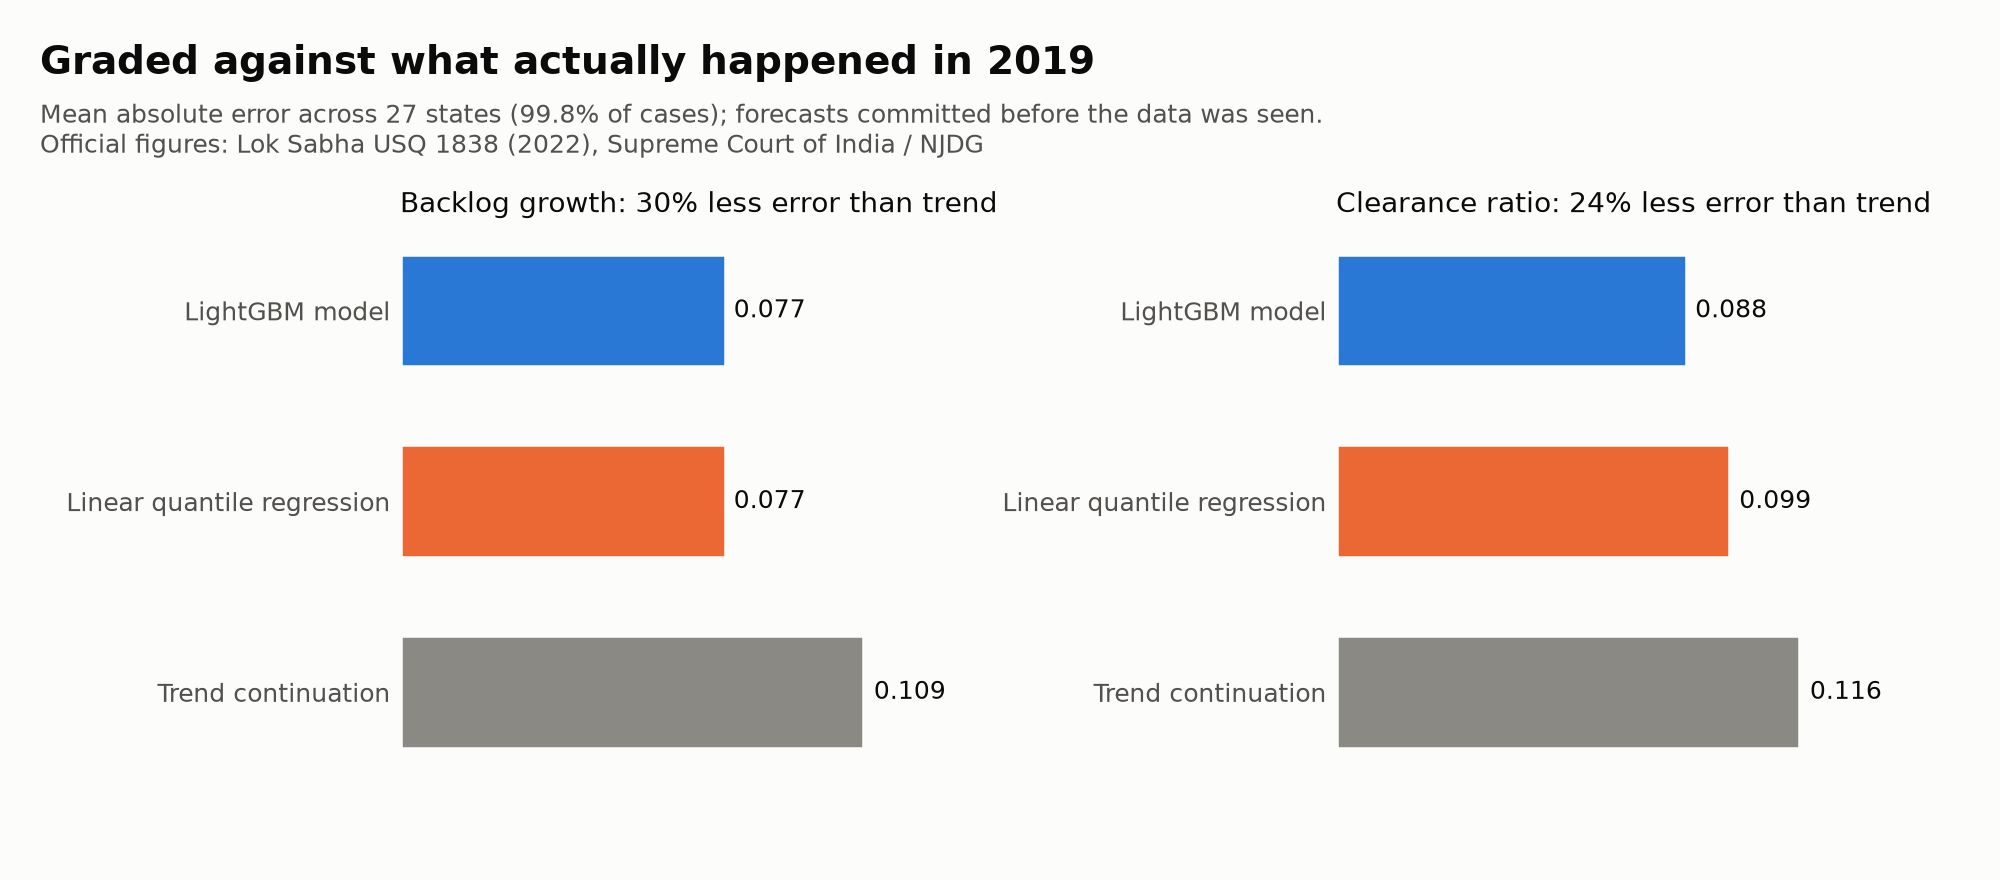
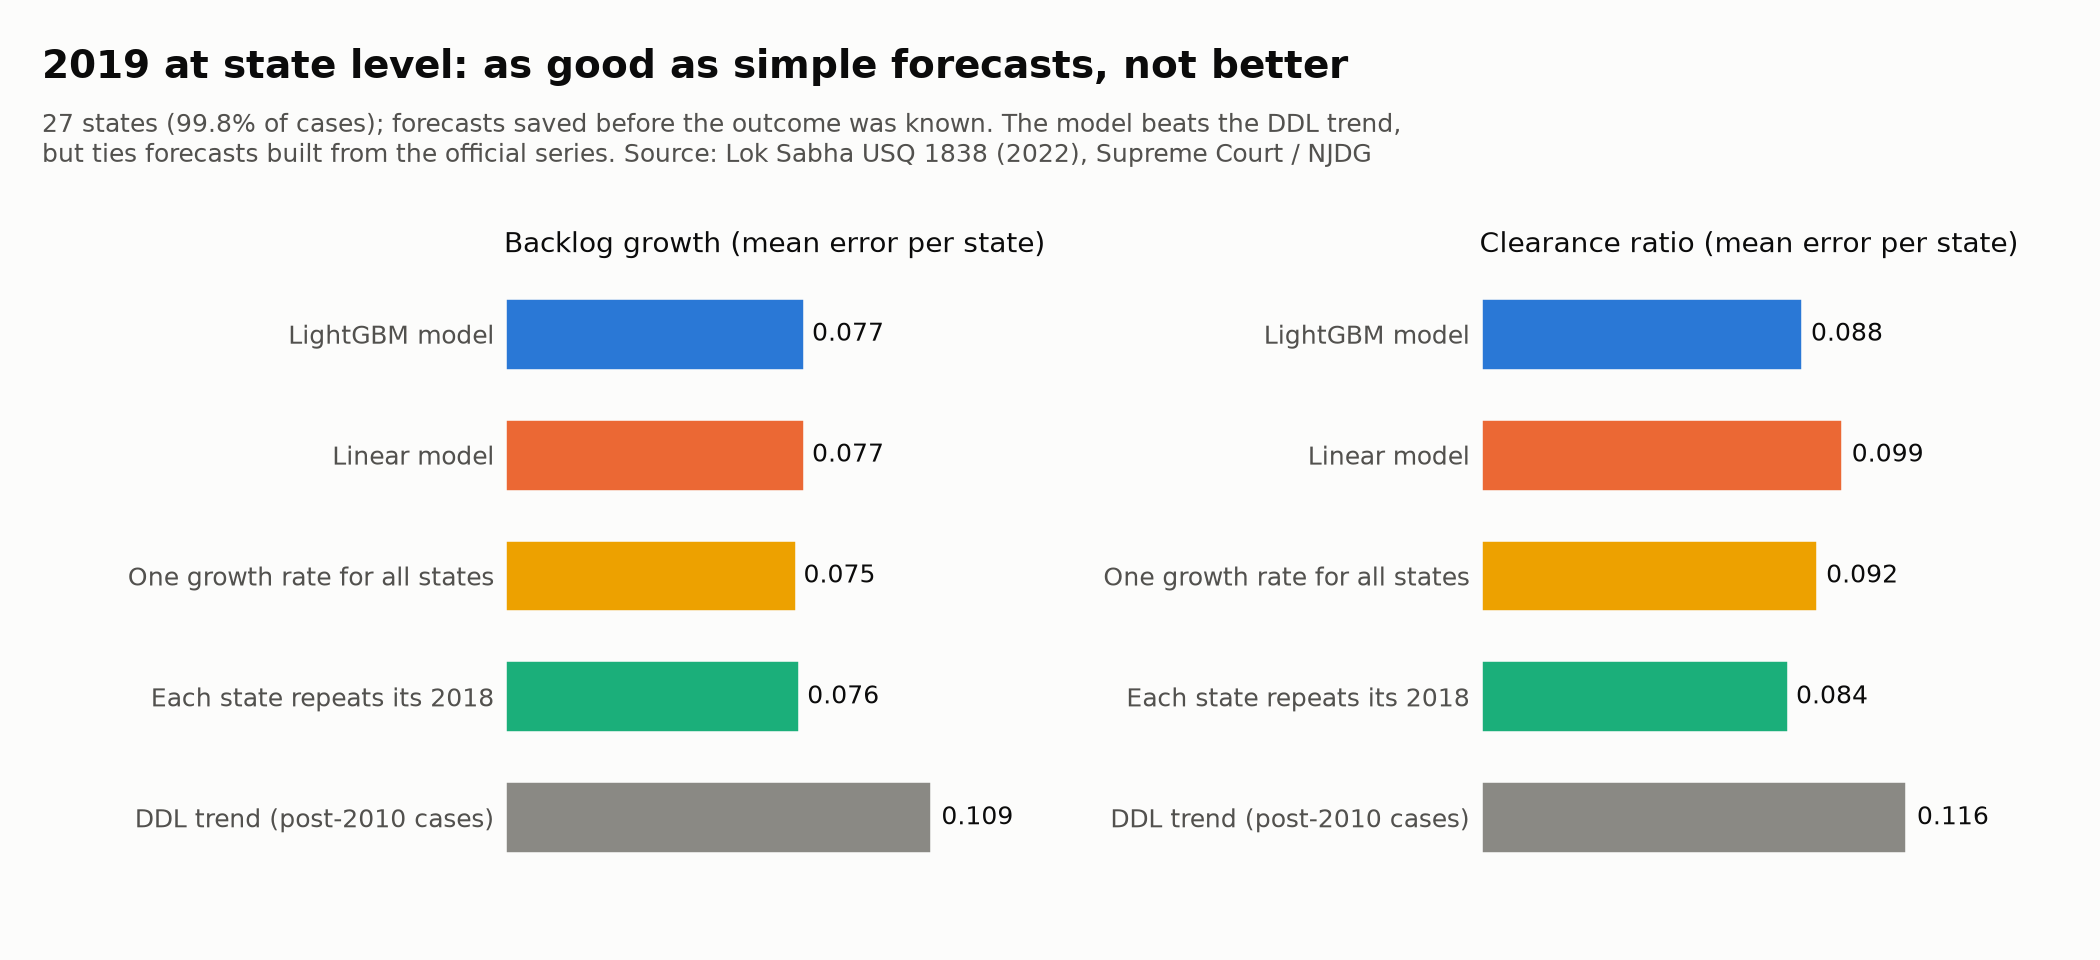
Grade against strong simple baselines, not only the DDL trend
The DDL trend anchor extrapolates the post-2010 stock, whose growth slows
mechanically, so it flattered the model. Adds official-series baselines to
the 2019 state grading (the model ties them) and naive_benchmarks.py for the
district validation (median skill vs the strongest simple forecast: 12-25%).
RESULTS, README and the 2019 chart now lead with the stricter comparison.

diff --git a/grade_state_2019.py b/grade_state_2019.py
@@ -67,7 +67,23 @@ OFFICIAL: Final = {
     "Sikkim": (1208, 1142, 1906),
     "Uttarakhand": (232338, 195281, 341452),
 }
+# official pending at end of 2017 and disposed during 2018 (same annexures): for naive baselines built on the
+# official series itself, which is the benchmark a skeptic would use
+OFFICIAL_2017_D2018: Final = {
+    "Uttar Pradesh": (6390684, 3282885), "Andhra Pradesh + Telangana": (1040864, 741390),
+    "Maharashtra": (3340050, 2196271), "Goa": (39249, 36235), "West Bengal": (2141254, 1016319),
+    "Chhattisgarh": (277338, 229548), "Delhi": (747704, 808156), "Gujarat": (1555203, 1418688),
+    "Assam": (276520, 311150), "Meghalaya": (14775, 8517), "Manipur": (6799, 4379), "Tripura": (107089, 139931),
+    "Mizoram": (5148, 12563), "Himachal Pradesh": (234639, 343667), "Jammu & Kashmir": (161674, 146194),
+    "Jharkhand": (338680, 194200), "Karnataka": (1432952, 1120397), "Kerala": (1623212, 961840),
+    "Madhya Pradesh": (1332566, 1386280), "Tamil Nadu": (1065878, 906184), "Odisha": (1178882, 255005),
+    "Bihar": (2223744, 361063), "Punjab": (572802, 712529), "Haryana": (643394, 628939),
+    "Chandigarh": (41695, 139172), "Rajasthan": (1635389, 1468290), "Sikkim": (1405, 2440),
+    "Uttarakhand": (210018, 288999),
+}
 FORECASTERS: Final = {"model": "", "linear": "linear_", "drift": "drift_"}
+# naive forecasts from the official series: each state repeats its own 2018; every state gets the 2018 median
+BASELINES: Final = ("official_last_year", "official_common")
 
 
 def official_frame() -> pd.DataFrame:
@@ -75,6 +91,11 @@ def official_frame() -> pd.DataFrame:
     o["A2019"] = o["P2019"] - o["P2018"] + o["D2019"]
     o["growth_actual"] = np.log(o["P2019"] / o["P2018"])
     o["cr_actual"] = np.where(o["A2019"] > 0, o["D2019"] / o["A2019"], np.nan)
+    h = pd.DataFrame.from_dict(OFFICIAL_2017_D2018, orient="index", columns=["P2017", "D2018"])
+    o = o.join(h)
+    a18 = o["P2018"] - o["P2017"] + o["D2018"]
+    o["growth_official_last_year"] = np.log(o["P2018"] / o["P2017"])
+    o["cr_official_last_year"] = np.where(a18 > 0, o["D2018"] / a18, np.nan)
     return o
 
 
@@ -112,11 +133,15 @@ def score(t: pd.DataFrame, target: str, names: list[str], subset: str, draws: in
             "mae_bias_removed": float(np.abs(e - e.mean()).mean()),
             "spearman_vs_actual": float(t[f"{target}_{n}"].rank().corr(t[f"{target}_actual"].rank())),
         }
-        if n != "drift":
-            boot = 1.0 - err[n][idx].sum(1) / err["drift"][idx].sum(1)
-            row |= {"error_reduction_vs_drift": float(1.0 - err[n].sum() / err["drift"].sum()),
-                    "error_reduction_lo": float(np.quantile(boot, 0.025)),
-                    "error_reduction_hi": float(np.quantile(boot, 0.975))}
+        for ref in ("drift", "official_common", "official_last_year"):
+            if n == ref or ref not in err or n in BASELINES:
+                continue
+            boot = 1.0 - err[n][idx].sum(1) / err[ref][idx].sum(1)
+            row |= {f"error_reduction_vs_{ref}": float(1.0 - err[n].sum() / err[ref].sum()),
+                    f"error_reduction_vs_{ref}_lo": float(np.quantile(boot, 0.025)),
+                    f"error_reduction_vs_{ref}_hi": float(np.quantile(boot, 0.975))}
+        w = t["P2018"].to_numpy()
+        row["mae_case_weighted"] = float((np.abs(e) * w).sum() / w.sum())
         rows.append(row)
     return rows
 
@@ -136,8 +161,10 @@ def main() -> None:
     keep = t["ddl_coverage_2018"].between(args.min_coverage, 1.5) & t["cr_actual"].between(0.0, 3.0)
     t["graded"] = keep
     t.to_csv(out / "state_table.csv", index_label="state")
-    g = t.loc[keep]
-    names = [n for n in FORECASTERS if f"growth_{n}" in g]
+    g = t.loc[keep].copy()
+    for target in ("growth", "cr"):  # one number for every state: the 2018 cross-state median
+        g[f"{target}_official_common"] = g[f"{target}_official_last_year"].median()
+    names = [n for n in FORECASTERS if f"growth_{n}" in g] + list(BASELINES)
     # robustness: drop states whose official series jumps implausibly (data clean-ups, not court activity)
     robust = g.loc[g["growth_actual"] >= -0.10]  # official stock falling >10% in a year
     rows = []
@@ -145,7 +172,7 @@ def main() -> None:
         rows += score(sub, "growth", names, lab) + score(sub, "cr", names, lab)
     summary = pd.DataFrame(rows)
     nat = {f"national_growth_{n}": float(np.log((g["ddl_pending_2018"] * np.exp(g[f"growth_{n}"])).sum()
-                                                 / g["ddl_pending_2018"].sum())) for n in names}
+                                                 / g["ddl_pending_2018"].sum())) for n in FORECASTERS}
     nat["national_growth_actual"] = float(np.log(g["P2019"].sum() / g["P2018"].sum()))
     summary.to_csv(out / "summary.csv", index=False)
     meta = {"source": SOURCE, "states_graded": int(keep.sum()),

diff --git a/make_charts.py b/make_charts.py
@@ -132,20 +132,23 @@ def clearance_chart(res: Path, out: Path) -> None:
 
 
 def real_2019_chart(res: Path, out: Path) -> None:
-    """Average state-level error against official 2019 outcomes (Lok Sabha USQ 1838), per forecaster."""
+    """Average state-level error against official 2019 outcomes (Lok Sabha USQ 1838), model vs simple forecasts."""
     path = res / "grading_2019_state" / "summary.csv"
     if not path.exists():
         return
     s = pd.read_csv(path)
     s = s.loc[s["subset"] == "all_graded"]
-    label = {"model": "LightGBM model", "linear": "Linear quantile regression", "drift": "Trend continuation"}
-    color = {"model": SERIES, "linear": SERIES_2, "drift": REFERENCE}
-    fig, axes = plt.subplots(1, 2, figsize=(10, 4.4), facecolor=SURFACE)
-    fig.subplots_adjust(left=0.20, right=0.97, top=0.74, bottom=0.12, wspace=0.55)
+    order = ["drift", "official_last_year", "official_common", "linear", "model"]
+    label = {"model": "LightGBM model", "linear": "Linear model", "drift": "DDL trend (post-2010 cases)",
+             "official_last_year": "Each state repeats its 2018", "official_common": "One growth rate for all states"}
+    color = {"model": SERIES, "linear": SERIES_2, "drift": REFERENCE, "official_last_year": "#1baf7a",
+             "official_common": "#eda100"}
+    fig, axes = plt.subplots(1, 2, figsize=(10.5, 4.8), facecolor=SURFACE)
+    fig.subplots_adjust(left=0.24, right=0.97, top=0.72, bottom=0.08, wspace=0.75)
     for ax, (target, title) in zip(axes, (("growth", "Backlog growth"), ("cr", "Clearance ratio"))):
-        d = s.loc[s["target"] == target].set_index("forecaster").reindex(["drift", "linear", "model"])
+        d = s.loc[s["target"] == target].set_index("forecaster").reindex(order).dropna(subset=["mae"])
         y = np.arange(len(d))
-        ax.barh(y, d["mae"], height=0.6, color=[color[k] for k in d.index], edgecolor=SURFACE, linewidth=2)
+        ax.barh(y, d["mae"], height=0.62, color=[color[k] for k in d.index], edgecolor=SURFACE, linewidth=2)
         for yi, v in zip(y, d["mae"]):
             ax.text(v * 1.02, yi, f"{v:.3f}", va="center", fontsize=9, color=TEXT)
         ax.set_yticks(y, [label[k] for k in d.index])
@@ -155,13 +158,12 @@ def real_2019_chart(res: Path, out: Path) -> None:
         for side in ("top", "right", "left", "bottom"):
             ax.spines[side].set_visible(False)
         ax.tick_params(colors=TEXT_2, labelsize=9, length=0)
-        red = d.loc["model", "error_reduction_vs_drift"]
-        ax.set_title(f"{title}: {red:.0%} less error than trend", fontsize=10, color=TEXT, loc="left")
+        ax.set_title(f"{title} (mean error per state)", fontsize=10, color=TEXT, loc="left")
     n = int(s["states"].iloc[0])
-    fig.text(0.02, 0.95, "Graded against what actually happened in 2019", fontsize=14, fontweight="bold",
-             color=TEXT, ha="left", va="top")
-    fig.text(0.02, 0.885, f"Mean absolute error across {n} states (99.8% of cases); forecasts committed before the "
-             "data was seen.\nOfficial figures: Lok Sabha USQ 1838 (2022), Supreme Court of India / NJDG",
+    fig.text(0.02, 0.95, "2019 at state level: as good as simple forecasts, not better", fontsize=14,
+             fontweight="bold", color=TEXT, ha="left", va="top")
+    fig.text(0.02, 0.885, f"{n} states (99.8% of cases); forecasts saved before the outcome was known. The model beats the DDL "
+             "trend,\nbut ties forecasts built from the official series. Source: Lok Sabha USQ 1838 (2022), Supreme Court / NJDG",
              fontsize=9, color=TEXT_2, ha="left", va="top")
     fig.savefig(out / "graded_2019.png", dpi=200, facecolor=SURFACE)
     plt.close(fig)

diff --git a/naive_benchmarks.py b/naive_benchmarks.py
@@ -1,0 +1,66 @@
+#!/usr/bin/env python3
+"""District-level validation against the strongest simple forecasts, not only the DDL trend anchor.
+
+The trend anchor extrapolates growth of the post-2010 stock, which slows mechanically as that stock matures, so it is
+a weak benchmark. Here each validation fold is also scored against:
+  climatology    quantiles of the target over all training rows (ignores district history)
+  last_year_xs   quantiles of the target across districts in the last fully realised year before the fold
+Run after pendency_forecast.py --ddl-only --out <dir>, which writes <dir>/panel_features.parquet.
+    python3 court_pendency/naive_benchmarks.py --panel outputs/panel_features.parquet
+"""
+from __future__ import annotations
+
+import argparse
+import sys
+from pathlib import Path
+
+import numpy as np
+import pandas as pd
+
+sys.path.insert(0, str(Path(__file__).resolve().parent))
+import pendency_forecast as pf  # noqa: E402
+
+HERE = Path(__file__).resolve().parent
+
+
+def main() -> None:
+    ap = argparse.ArgumentParser(description=__doc__, formatter_class=argparse.RawDescriptionHelpFormatter)
+    ap.add_argument("--panel", type=Path, required=True)
+    ap.add_argument("--out", type=Path, default=HERE / "results" / "ddl_2010_2018" / "naive_benchmarks.csv")
+    args = ap.parse_args()
+    fr = pd.read_parquet(args.panel)
+    cfg = pf.Config(val_start=pd.Period("2017-01", "M"), horizons=(12,), break_windows=(),
+                    min_origin=pd.Period("2013-01", "M"), val_folds=(("2016-01", 6), ("2017-01", 12)),
+                    exclude_features=(*pf.TRUNCATION_SENSITIVE, *pf.JUDGE_RECORD_SENSITIVE))
+    rows = []
+    for target in ("growth", "cr"):
+        y_col, anchor = f"y_{target}_12", f"anchor_{target}_12"
+        data = fr.loc[fr[anchor].notna() & (fr["months_on_ecourts"] >= cfg.min_months_on_ecourts) & fr[y_col].notna()]
+        for vs, cal in cfg.val_folds:
+            v0 = pf.abs_month(pd.Period(vs, "M"))
+            fit = pf._fit_one(data, target, 12, cfg, v0, cal)
+            if fit is None:
+                continue
+            suite, _, tr, _, va = fit
+            va = va.loc[va["t"] < v0 + 12]
+            y = va[y_col].to_numpy()
+            q = suite.predict(va)
+            last = data.loc[(data["t"] >= v0 - 24) & (data["t"] < v0 - 12), y_col]
+            for k, tau in enumerate(sorted(cfg.quantiles)):
+                losses = {
+                    "model": pf.pinball(y, q[:, k], tau),
+                    "drift": pf.pinball(y, va[anchor].to_numpy() + np.quantile(tr[y_col] - tr[anchor], tau), tau),
+                    "climatology": pf.pinball(y, np.full(len(y), np.quantile(tr[y_col], tau)), tau),
+                    "last_year_xs": pf.pinball(y, np.full(len(y), np.quantile(last, tau)), tau),
+                }
+                best = min(v for kk, v in losses.items() if kk != "model")
+                rows.append({"fold": vs[:4], "target": target, "tau": tau, **losses,
+                             "skill_vs_drift": 1 - losses["model"] / losses["drift"],
+                             "skill_vs_best_naive": 1 - losses["model"] / best})
+    out = pd.DataFrame(rows)
+    out.to_csv(args.out, index=False)
+    print(out.round(4).to_string(index=False))
+
+
+if __name__ == "__main__":
+    main()

diff --git a/results/ddl_2010_2018/RESULTS.md b/results/ddl_2010_2018/RESULTS.md
@@ -16,18 +16,21 @@ looked at. It was then scored against official state-wise figures: Lok Sabha Uns
 Annexures III and VIII, from the Supreme Court of India / NJDG (`../../grade_state_2019.py`,
 `grading_2019_state/`). The 27 graded states hold 99.8% of India's district-court cases.
 
-| 2019, state level | LightGBM model | Linear model | Trend continuation | Model's error reduction vs trend (95% range) |
-|---|---|---|---|---|
-| Backlog growth, mean abs. error | 0.077 | 0.077 | 0.109 | **30%** (11% to 53%) |
-| Clearance ratio, mean abs. error | 0.088 | 0.099 | 0.116 | **24%** (13% to 36%) |
+| 2019, mean error per state | Model | Linear | One rate for all states | Each state repeats 2018 | DDL trend |
+|---|---|---|---|---|---|
+| Backlog growth | 0.077 | 0.077 | 0.075 | 0.076 | 0.109 |
+| Clearance ratio | 0.088 | 0.099 | 0.092 | 0.084 | 0.116 |
 
-- National backlog growth in 2019: actual +7.4%; model +4.6%; linear +3.6%; trend continuation +1.7%.
-- Without Tripura and Uttarakhand, whose official backlogs fall 75% and 17% in one year (likely data clean-ups),
-  the reduction is 45% for growth and 32% for clearance.
-- The model ranks states only moderately well (Spearman 0.44 for growth, 0.50 for clearance; trend continuation is
-  similar). It wins mainly by getting the level right, which trend continuation underestimates.
-- Caveat: official counts include cases filed before 2010, which the model never sees. All three forecasters share
-  this gap. District-level grading needs NJDG district history (`../../grade_2019.py`).
+- **At state level the model is as good as simple forecasts built from the official series, not better.** It beats
+  the DDL trend by 30% (growth) and 24% (clearance), but that trend is a weak benchmark: it extrapolates the
+  post-2010 stock, whose growth slows mechanically as that stock matures.
+- Weighted by caseload, the model's clearance-ratio error is 23% below the best simple forecast (0.062 vs 0.081).
+  That weighting was chosen after seeing the results, so treat it as exploratory.
+- National backlog growth in 2019: actual +7.4%; model +4.6%; linear +3.6%; DDL trend +1.7%.
+- The scoring rules (state level, mean absolute error, which subsets) were chosen after the outcome was known; only
+  the forecasts were locked in advance. Every variant computed is reported in `grading_2019_state/summary.csv`.
+- Official counts include cases filed before 2010, which the model never sees, and some official series jump
+  (Tripura −75%, Uttarakhand −17% in one year), so the "actual" side is noisy too.
 
 ## Validation (2016 + 2017 pooled, 15k district-months)
 Improvement = lower pinball loss than the benchmark. The 95% ranges come from resampling whole High Courts
@@ -43,6 +46,10 @@ Improvement = lower pinball loss than the benchmark. The 95% ranges come from re
 | Clearance ratio | q90 | 25% (17% to 32%) | +2% (-3% to +6%) | 0.88 (0.90) |
 
 - The improvement over trend continuation holds in both validation years separately (`validation_metrics.csv`).
+- **Against the strongest simple forecast** (the spread of outcomes across districts in the last realised year, which
+  ignores each district's history), the median forecasts are still better: backlog growth 24% (2016) and 12% (2017),
+  clearance ratio 25% and 15% (`naive_benchmarks.csv`, `../../naive_benchmarks.py`). The skill is real at district
+  level, but smaller than the comparison with the DDL trend suggests.
 - **LightGBM is not what earns it.** The linear quantile regression does about as well: LightGBM is better for
   best-case growth and median clearance, worse for worst-case growth, and level elsewhere. The gain comes from the
   features and the anchor-plus-change setup.

diff --git a/README.md b/README.md
@@ -7,8 +7,9 @@ Full write-up and limitations: [`results/ddl_2010_2018/RESULTS.md`](results/ddl_
 Trained model: [`models/ddl_2010_2018/`](models/ddl_2010_2018/).
 
 **Graded against reality:** forecasts for 2019, committed before any 2019 data was looked at, were scored against
-official state-wise figures (Lok Sabha USQ 1838, Supreme Court / NJDG). They had 30% less error than trend
-continuation on backlog growth and 24% less on clearance ratio, across 27 states holding 99.8% of cases.
+official state-wise figures (Lok Sabha USQ 1838, Supreme Court / NJDG). At state level they match simple forecasts
+built from the official series but do not beat them. At district level (2016–2017 validation) the median forecasts
+beat the strongest simple forecast by 12–25%. Details and every variant: RESULTS.md.
 
 ![Graded against 2019](results/ddl_2010_2018/charts/graded_2019.png)
 ![Forecast accuracy](results/ddl_2010_2018/charts/forecast_accuracy.png)
